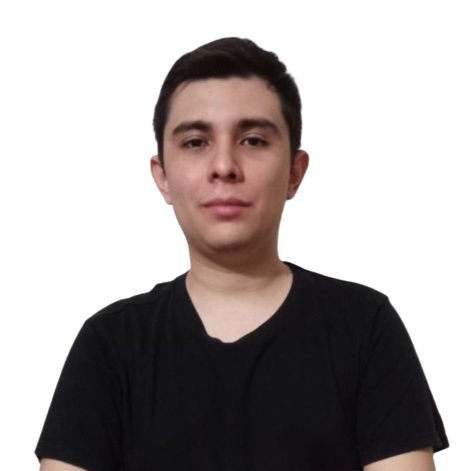
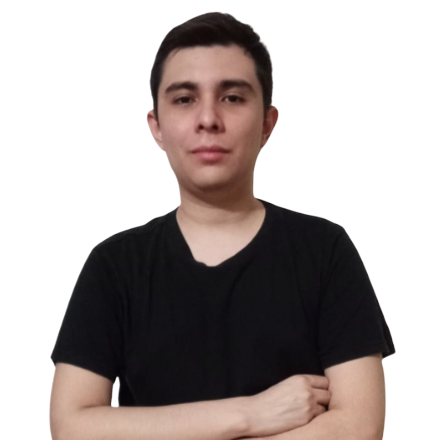
se agregaron estilos a la sub seccion de metodos de contacto y se aplico intersection observer para iluminar los navlink a pasar por cada seccion

diff --git a/src/components/Header.jsx b/src/components/Header.jsx
@@ -51,6 +51,44 @@ function Header() {
   }, [])
   
 
+  useEffect(() => {
+
+    const callback = (entradas)=> {
+      
+      
+      entradas.forEach(entrada => {
+          const idSeccion = entrada.target.getAttribute("id")
+          const navLink = document.querySelector(`.nav_link[href*=${idSeccion}]`)
+        if (entrada.isIntersecting) {
+          
+          navLink.classList.add("active-link")
+         
+        }
+        else{
+          navLink.classList.remove("active-link")
+        }
+      });
+    }
+    
+    const secciones = document.querySelectorAll('.nav_section')
+    
+    const observer = new IntersectionObserver(callback, {
+      root: null,
+      rootMargin: '0px 0px 0px 0px',
+      threshold: 0.7
+    });
+
+    secciones.forEach((seccion)=>{
+      observer.observe(seccion)
+    })
+    
+
+    return () => {
+      observer.disconnect()
+    }
+  }, [])
+
+  
 
 
 
@@ -64,16 +102,16 @@ function Header() {
           <ol className= {`nav_list ${menu ? "open_menu":""}`}>
             
             <li className="nav_item">
-              <a className="nav_link">Acerca de mí</a>
+              <a className="nav_link" href="#about" >Acerca de mí</a>
             </li>
             <li className="nav_item">
-              <a className="nav_link">Experiencia</a>
+              <a className="nav_link" href="#experience">Experiencia</a>
             </li>
             <li className="nav_item">
-              <a className="nav_link">Proyectos</a>
+              <a className="nav_link" href="#projects">Proyectos</a>
             </li>
             <li className="nav_item">
-              <a className="nav_link">Contacto</a>
+              <a className="nav_link" href="#contact">Contacto</a>
             </li>
           </ol>
           <button

diff --git a/src/components/CardProject.jsx b/src/components/CardProject.jsx
@@ -2,12 +2,12 @@ import { FiGithub, FiExternalLink } from "react-icons/fi";
 import "../css/projects.css";
 
  const CardProject = ({
-  extlink,
+  extlink="/",
   imgsrc,
-  name,
-  repolink,
-  description,
-  techname,
+  name="nombre del proyecto",
+  repolink="https://github.com/",
+  description="descripcion",
+  techname="nombre de tecnologia",
 }) => {
   return (
     <article
@@ -23,7 +23,6 @@ import "../css/projects.css";
               href={extlink}
               target="_blank"
               rel="noopener noreferrer"
-              aria-label="Link that redirects to the live view of the project"
             >
               {name}
             </a>
@@ -34,7 +33,6 @@ import "../css/projects.css";
               href={repolink}
               target="_blank"
               rel="noopener noreferrer"
-              aria-label="Link that redirects to the project repository"
             >
               <FiGithub />
             </a>
@@ -43,7 +41,6 @@ import "../css/projects.css";
               href={extlink}
               target="_blank"
               rel="noopener noreferrer"
-              aria-label="Link that redirects to the live view of the project"
             >
               <FiExternalLink />
             </a>

diff --git a/src/css/about.css b/src/css/about.css
@@ -43,7 +43,7 @@
 }
 
 .photo {
-    width: 18rem;
+    width: 16rem;
     border-radius:50%;
     aspect-ratio: 1 / 1;
     object-fit: contain;
@@ -53,22 +53,28 @@
 .container_photo {
     border: 0.35rem solid var(--blue);
     border-radius: 50%;
-    width: 20rem;
+    width: 18rem;
     aspect-ratio: 1/1;
     display: flex;
     justify-content: center;
+    align-items: flex-end;
+    background-color: var(--gray);
     
 }
 
 @media (max-width: 890px) {
     .about_data, .about_photo {
         width: 100%;
+        margin-bottom: 1.5rem;
     }
 
     .photo {
+        width: 14rem;
+        margin:0;
+    }
+
+    .container_photo {
         width: 16rem;
-        border: 0.25rem solid var(--blue);
-        margin: 1rem 0 2rem;
     }
 }
 
@@ -110,16 +116,15 @@
 
 
 .slides_images {
-    width: 2.5rem;
+    width: 2.75rem;
 }
 
 .splide__slide  {
     display: flex;
     align-items: center;
     justify-content: center;
-    background-color: var(--bg-body);
     border-radius: 0.75rem;
-    width: 3.5rem;
+    width: 3.4rem;
     aspect-ratio: 1/1;
     object-fit: contain;
 } 

diff --git a/src/components/About.jsx b/src/components/About.jsx
@@ -1,4 +1,4 @@
-import foto from "../assets/images/foto2.png"
+import foto from "../assets/images/foto4.png"
 import '../css/about.css'
 import "@splidejs/splide/dist/css/splide.min.css";
 import { Splide, SplideSlide } from "@splidejs/react-splide";
@@ -23,7 +23,7 @@ function About() {
   ]
 
   return (
-    <section className='about_section' id='about'>
+    <section className='about_section nav_section' id='about'>
       <div className='container'>
       <h2 className='section_title' data-number="1">Acerca de mí</h2>
       <div className='about'>
@@ -61,7 +61,7 @@ function About() {
                 aria-label="Skills List"
                 options={{
                   type: "loop",
-                  gap: "2rem",
+                  gap: "1.75rem",
                   drag: "free",
                   arrows: false,
                   pagination: false,

diff --git a/src/components/Projects.jsx b/src/components/Projects.jsx
@@ -4,7 +4,7 @@ import landing from '../assets/images/captura_landing.png'
 import TechName from "./TechName";
 function Projects() {
   return (
-    <div className="section_projects">
+    <section className="section_projects nav_section" id="projects">
         <div className='container'>
             <h2 className='section_title' data-number="3">Proyectos</h2>
             <div className='container_grid_projects'>
@@ -43,7 +43,7 @@ function Projects() {
             </div>
         </div>
         
-    </div>
+    </section>
   )
 }
 

diff --git a/src/css/contacto.css b/src/css/contacto.css
@@ -114,7 +114,7 @@ border: 0.2rem solid brown; */
     justify-content: center;
     align-items: center;
     /* border: solid brown; */
-    gap: 1rem;
+    gap: 1.3rem;
 }
 
 .method h4 {
@@ -131,8 +131,9 @@ border: 0.2rem solid brown; */
  align-items: center;
  padding-inline: 1.5rem;
  padding-block: 1rem;
- background-color: var(--bg-body);
+ background-color: var(--bg-body); 
  border-radius: 0.3rem;
+ box-shadow: 0px 0px 1px 1px var(--green);
  
 }
 

diff --git a/src/css/Header.css b/src/css/Header.css
@@ -237,6 +237,7 @@
   display: flex;
   align-items: center;
   column-gap: 0.5rem;
+  transition: background-color .3s ease-out;
 }
 
 .languages_list li:hover {
@@ -276,6 +277,14 @@
   background: none
 }
 
+.nav_link.active-link {
+  color: var(--white);
+  font-weight: 500;
+}
+
+.nav_link.active-link:before {
+  color: var(--white);
+}
 
 @media (max-width: 890px) {
     .header_section .logo_link {

diff --git a/src/components/Contacto.jsx b/src/components/Contacto.jsx
@@ -8,7 +8,7 @@ import { FaPhoneAlt } from "react-icons/fa";
 
 function Contacto() {
   return (
-    <section className='contact_section'>
+    <section className='contact_section nav_section' id='contact'>
         <div className="container">
             <h2 className="section_title" data-number="4">Contacto</h2>
             <div className='contact_grid'>

diff --git a/src/components/Experiencia.jsx b/src/components/Experiencia.jsx
@@ -4,7 +4,7 @@ import jobs from "../../src/jobsData"
 
 function Experiencia() {
   return (
-    <section className="experience_section">
+    <section className="experience_section nav_section" id="experience">
       <div className="container">
         <h2 className="section_title" data-number="2">Experiencia</h2>
         <div className="container_jobs">

diff --git a/src/css/projects.css b/src/css/projects.css
@@ -1,5 +1,5 @@
-.projects_section {
-    padding: 6.5rem 0;
+.section_projects {
+    padding-top: 6.5rem;
   }
   
   .container_grid_projects {

diff --git a/src/css/experiencia.css b/src/css/experiencia.css
@@ -1,5 +1,5 @@
 .experience_section {
-    padding: 6.5rem 0;
+    padding-top: 6.5rem;
 }
 
 
